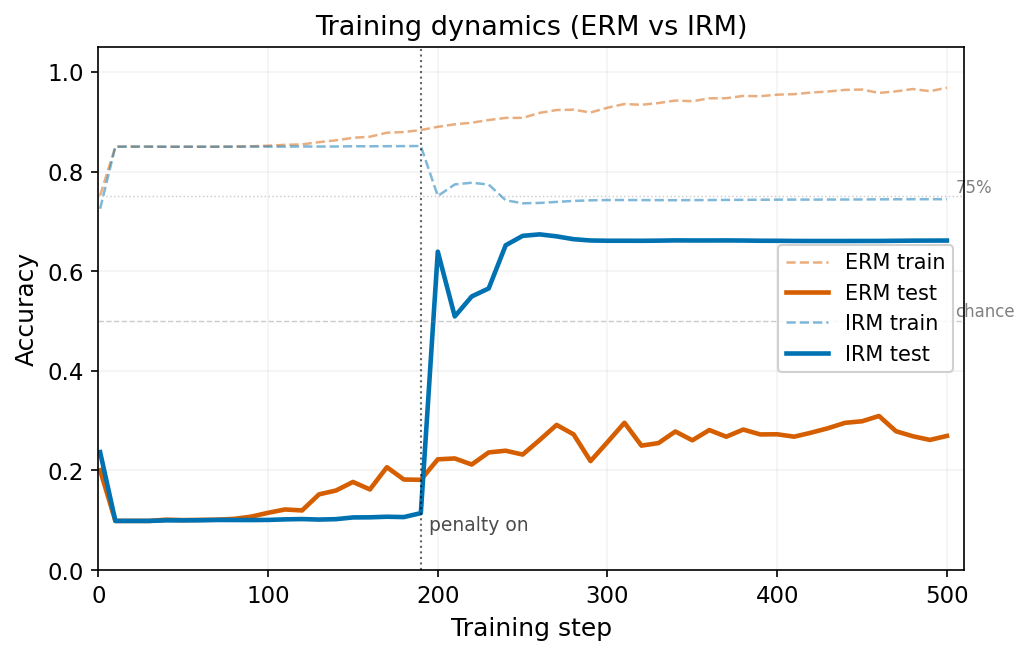
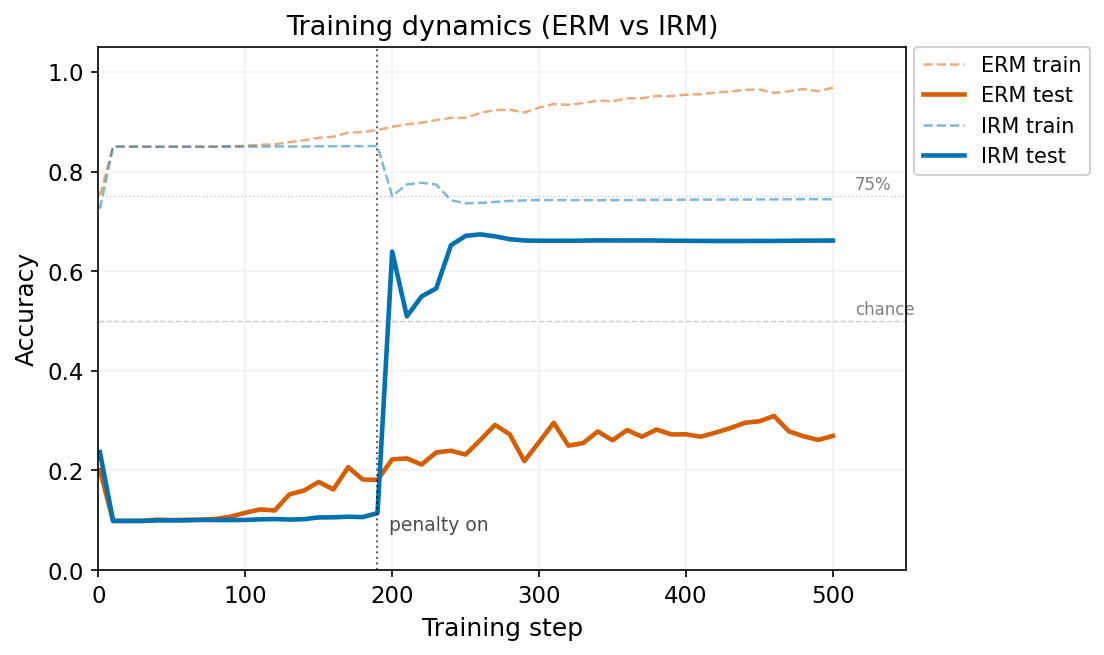
update readme

diff --git a/README.md b/README.md
@@ -4,6 +4,8 @@
 
 > *An empirical reproduction of [Invariant Risk Minimization (IRM)](https://arxiv.org/abs/1907.02893) and representation analysis of out-of-distribution generalization.*
 
+[![Open In Colab](https://colab.research.google.com/assets/colab-badge.svg)](https://colab.research.google.com/drive/12_yHp6XynY7E3vlwdlTnastwfLiklRNY?usp=sharing)
+
 </div>
 
 ---
